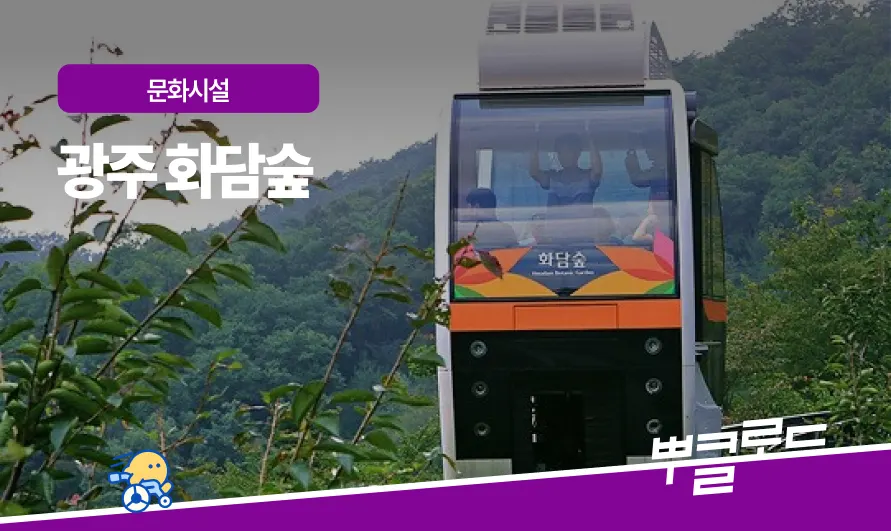
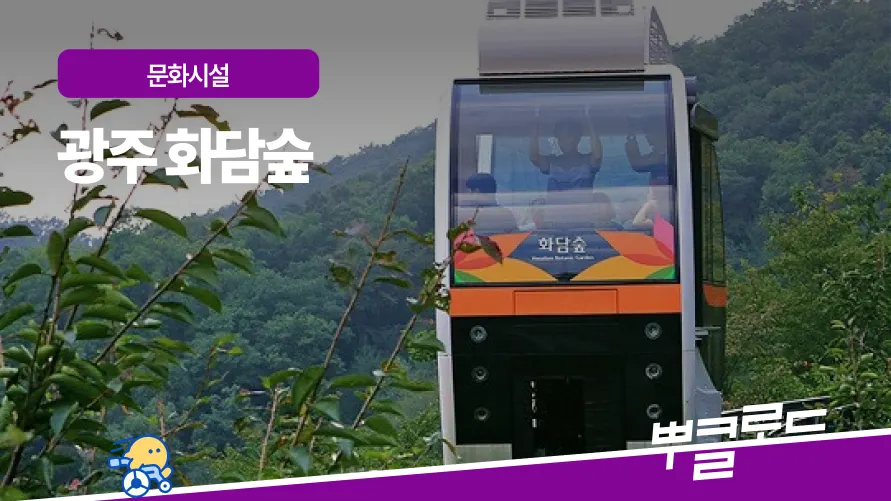
fix(articles): 썸네일을 16:9 중앙 크롭으로 생성
sharp가 너비만 1024로 맞추고 비율은 원본 그대로 둬서, 생성된 썸네일이
1.00(정사각)~2.50까지 제각각이었다. 소비처(앱 홈 카드/웹 목록 카드)가 전부
16:9 박스라 파일 단계에서 비율을 확정한다 — 소비처의 object-fit/resizeMode에
의존하면 하나만 빠져도 눌리거나 레터박스가 생긴다.

- resize(w, h, {fit:'cover', position:'centre'}) — 가로가 길든 세로가 길든
  확대해서 중앙만 남긴다.
- withoutEnlargement는 쓸 수 없다: cover와 함께 주면 sharp가 크롭을 통째로
  건너뛰고 원본 비율을 그대로 뱉는다(891x531 → 891x531).
- 대신 타깃 폭을 min(1024, 원본폭, 원본높이*16/9)로 계산해 확대를 막는다.
  원본높이 항이 없으면 가로가 긴 원본(1024x410)이 세로 부족으로 1.4배 확대된다.
- 24장 재생성: 전부 16:9, 확대 0건, 총 1.42MB. manifest 경로는 그대로라
  앱/웹 코드 변경은 없다(에셋 교체 + CloudFront 무효화만).

diff --git a/scripts/build-articles.js b/scripts/build-articles.js
@@ -517,8 +517,11 @@ async function downloadImage(url, destDir, idx, prefix = 'img') {
 //  2) pruneUnusedAssets가 markUsed 안 된 파일을 지운다. mtime 비교로 "지워졌으면 다시 만든다"가 되어
 //     prune 화이트리스트를 건드릴 필요가 없다.
 const THUMB_NAME = 'thumb-0.webp';
-const THUMB_WIDTH = 1024; // 앱 카드 260pt@3x=780px + 웹 히어로 카드까지 커버. ponytail: 단일 사이즈, srcset은 필요해지면.
+const THUMB_MAX_WIDTH = 1024; // 앱 카드 260pt@3x=780px + 웹 히어로 카드까지 커버. ponytail: 단일 사이즈, srcset은 필요해지면.
 const THUMB_QUALITY = 78;
+// 소비처(앱 홈 카드, 웹 목록 카드)가 전부 16:9 박스라 파일도 16:9로 잘라둔다. 원본 비율을 유지하면
+// 소비처마다 object-fit/resizeMode에 의존하게 되고, 하나라도 빠뜨리면 눌리거나 레터박스가 생긴다.
+const THUMB_ASPECT = 16 / 9;
 
 async function ensureThumbnails(manifest, srcDir = SRC_DIR) {
   let created = 0;
@@ -538,15 +541,29 @@ async function ensureThumbnails(manifest, srcDir = SRC_DIR) {
       continue;
     }
     sharp = sharp || require('sharp');
+    // 타깃 크기를 원본에서 계산한다. resize에 withoutEnlargement를 주면 sharp가 크롭 자체를
+    // 건너뛰고 원본 비율을 그대로 뱉어서(891x531 → 891x531) 16:9 보장이 깨진다.
+    // 확대 없이 16:9를 채우려면 폭이 원본 폭뿐 아니라 **원본 높이**에도 묶여야 한다 —
+    // 가로가 긴 원본(1024x410)은 세로가 모자라서, 폭만 보고 1024를 잡으면 1.4배 확대된다.
+    const meta = await sharp(srcPath).metadata();
+    const width = Math.round(
+      Math.min(
+        THUMB_MAX_WIDTH,
+        meta.width || THUMB_MAX_WIDTH,
+        (meta.height || THUMB_MAX_WIDTH) * THUMB_ASPECT,
+      ),
+    );
+    const height = Math.round(width / THUMB_ASPECT);
     await sharp(srcPath)
-      .resize({width: THUMB_WIDTH, withoutEnlargement: true})
+      // 가로가 길든 세로가 길든 확대해서 중앙만 남긴다.
+      .resize(width, height, {fit: 'cover', position: 'centre'})
       .webp({quality: THUMB_QUALITY})
       .toFile(destPath);
     entry.thumbnail = thumbUrl;
     created++;
   }
   if (created)
-    console.log(`  🖼  썸네일 생성 ${created}건 (${THUMB_WIDTH}px webp)`);
+    console.log(`  🖼  썸네일 생성 ${created}건 (16:9 중앙크롭 webp)`);
   return created;
 }
 

diff --git a/scripts/__tests__/build-articles-assets.test.js b/scripts/__tests__/build-articles-assets.test.js
@@ -109,6 +109,35 @@ describe('ensureThumbnails', () => {
     expect(manifest.a.thumbnail).toBe(`/articles/hello/assets/${THUMB_NAME}`);
   });
 
+  // 소비처(앱 카드/웹 목록)가 전부 16:9 박스다. 파일이 원본 비율이면 소비처의 object-fit
+  // 하나만 빠져도 눌리거나 레터박스가 생긴다 → 파일 단계에서 비율을 확정한다.
+  // resize에 withoutEnlargement를 주면 크롭이 통째로 스킵돼 이 테스트가 깨진다.
+  test.each([
+    ['가로가 긴 원본', 1600, 400],
+    ['세로가 긴 원본', 400, 1600],
+    ['정사각 원본', 800, 800],
+    ['1024보다 작은 원본', 600, 400],
+  ])('%s도 16:9로 중앙 크롭한다', async (_label, w, h) => {
+    const sharp = require('sharp');
+    const srcDir = tmp();
+    const assetsDir = path.join(srcDir, 'x', 'assets');
+    fs.mkdirSync(assetsDir, {recursive: true});
+    await sharp({
+      create: {width: w, height: h, channels: 3, background: '#888'},
+    })
+      .png()
+      .toFile(path.join(assetsDir, 'img-0.png'));
+
+    await ensureThumbnails({a: entryFor('x')}, srcDir);
+
+    const out = await sharp(path.join(assetsDir, THUMB_NAME)).metadata();
+    expect(out.width / out.height).toBeCloseTo(16 / 9, 2);
+    // 확대 금지 — 두 축 다 본다. 폭만 보면 가로가 긴 원본(1600x400)이 세로 부족으로
+    // 1.4배 업스케일되는 걸 놓친다.
+    expect(out.width).toBeLessThanOrEqual(Math.min(1024, w));
+    expect(out.height).toBeLessThanOrEqual(h);
+  });
+
   test('두 번째 호출은 아무것도 다시 만들지 않는다 (idempotent)', async () => {
     const {srcDir} = setup('hello');
     const manifest = {a: entryFor('hello')};
